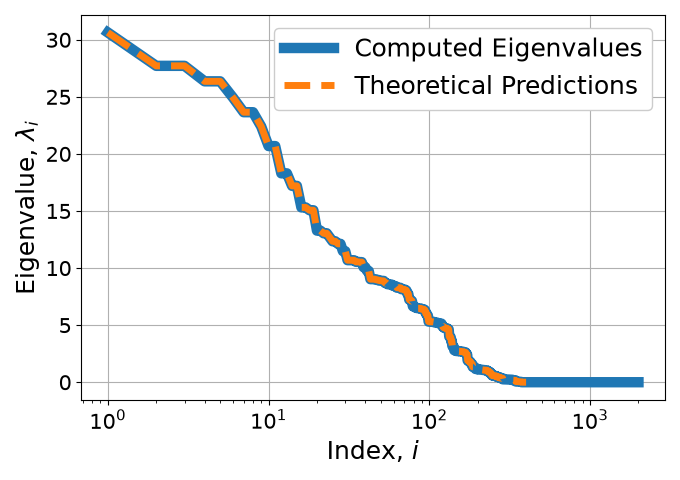
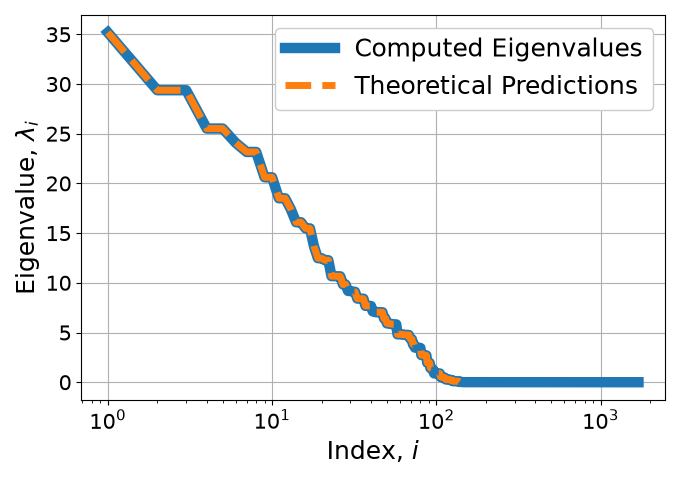
also fixed for deep networks

diff --git a/balanced_network_random_data.py b/balanced_network_random_data.py
@@ -1,57 +1,71 @@
-from os.path import basename, splitext
+import os
 
 import numpy as np
 import torch
 import matplotlib.pyplot as plt
 
 from constants import *
+from utilities import pad
 
 
-n, d, L = 100, 20, 5
+n, L = 100, 5
+d_in, d_hid, d_out = 20, 15, 10
+widths = [d_in] + [d_hid]*(L-1) + [d_out]
 sigma_x = 3
 
+assert n >= d_in
+k = min(widths)
+L = len(widths) - 1
+X_spec_norm = n**0.5 * sigma_x
 
 # 1. Generate whitened X
-X_raw = torch.randn(d, n)
-Q_x, _ = torch.linalg.qr(X_raw.T)
-X = Q_x.T[:d, :] * np.sqrt(n) * sigma_x
-print((1/n*X@X.T - sigma_x**2*torch.eye(d)).abs().max())
+Q_x, _ = torch.linalg.qr(torch.randn(n, d_in), mode="reduced")
+X = Q_x.T * X_spec_norm
+print(f"Deviation from Assumption 1: {(
+    X@X.T / X_spec_norm**2 - torch.eye(X.size(0))
+).abs().max().item():.3e}")
 
 # 2. Fixed Singular Values for all layers
-s_sq = torch.sort(torch.rand(d), descending=True).values
-S = torch.diag(torch.sqrt(s_sq))
+s_sq = torch.sort(torch.rand(k), descending=True).values
+s = torch.sqrt(s_sq)
 
 # 3. Generate Aligned Weights: V_{l+1} = U_l
 weights = []
-V, _ = torch.linalg.qr(torch.randn(d, d))
+V, _ = torch.linalg.qr(torch.randn(widths[0], k))
 for l in range(L):
-    U, _ = torch.linalg.qr(torch.randn(d, d))
-    V, W = U, U@S@ V.T
+    U, _ = torch.linalg.qr(torch.randn(widths[l+1], k))
+    V, W = U, (U*s) @ V.T
     W = W.clone().requires_grad_(True)
     weights.append(W)
 with torch.no_grad():
-    for W1, W2 in zip(weights[:-1], weights[1:]):
-        print((W1@W1.T-W2.T@W2).abs().max())
+    for l, (W1, W2) in enumerate(zip(weights[:-1], weights[1:]), 1):
+        print(f"Imbalance between layer {l} and layer {l+1}: {(
+            W1 @ W1.T - W2.T @ W2
+        ).abs().max().item():.3e}")
 
 # 4. Target Generation (Zero Loss)
-weights_prod = torch.eye(d)
+weights_prod = torch.eye(weights[0].size(1))
 with torch.no_grad():
     for W in weights:
         weights_prod = W @ weights_prod
-Y = weights_prod @ X
+    Y = weights_prod @ X
 
-print((1/n*Y@X.T - sigma_x**2*weights_prod).abs().max())
-print((torch.pow(s_sq, L) - torch.linalg.svdvals(Y).square() / (n*sigma_x**2)).abs().max())
+print(f"Deviation from OLS solution: {(
+    Y@X.T / X_spec_norm**2 - weights_prod
+).abs().max().item():.3e}")
+print(f"Error in Equation 20b: {(
+    pad(torch.pow(s_sq, len(weights)), d_out) -
+    pad(torch.linalg.svdvals(Y).square(), d_out) / X_spec_norm**2
+).abs().max().item():.3e}")
 
 # 5. Loss and Autograd Hessian
 def get_loss(flat_params):
-    curr_X = X
-    curr = 0
-    for _ in range(L):
-        W = flat_params[curr:curr+d*d].view(d, d)
-        curr_X = W @ curr_X
-        curr += d*d
-    return 0.5 / n * torch.sum((curr_X-Y)**2)
+    out, pointer = X, 0
+    for l in range(len(weights)):
+        W = flat_params[pointer:pointer+weights[l].numel()].view_as(weights[l])
+        out = W @ out
+        pointer += weights[l].numel()
+    return 0.5 / n * torch.sum((out-Y)**2)
 
 flat_W = torch.cat([W.flatten() for W in weights])
 H = torch.autograd.functional.hessian(get_loss, flat_W)
@@ -59,36 +73,25 @@ eigs_actual = torch.linalg.eigvalsh(H)
 
 # 6. Geometric Series
 analytical = []
-for i in range(d):
-    for j in range(d):
-        a, b = s_sq[i], s_sq[j]
-        val = (a**L - b**L)/(a - b) if abs(a-b) > 1e-7 else L*(a**(L-1))
+for i in range(d_in):
+    for j in range(d_out):
+        a, b = s_sq[i] if i < len(s_sq) else 0., s_sq[j] if j < len(s_sq) else 0.
+        val = (a**L-b**L)/(a-b) if abs(a-b) > 1e-7 else L*(a**(L-1))
         analytical.append(sigma_x**2*val)
 
-eigs_theory = torch.tensor(sorted(analytical, reverse=True))
-eigs_actual_top = torch.sort(eigs_actual, descending=True).values
+eigs_theory = np.sort(analytical, descending=True)
+eigs_actual = np.sort(eigs_actual, descending=True)
 
 k = 10
-print(f"Alignment Verification (L={L}, d={d})\nDisplaying Top-{k} and Bottom-{k} Eigvals")
-print("\n" + "-" * 50)
-print("\nNumerical Eigvals:\n")
-print(eigs_actual_top[:k].numpy(), " ...\n\n", eigs_actual_top[len(eigs_theory)-k:len(eigs_theory)].numpy(), sep="")
-print("\nAnalytical Eigvals:\n")
-print(eigs_theory[:k].numpy(), " ...\n\n", eigs_theory[-k:].numpy(), sep="")
-
-s_sq = (torch.linalg.svdvals(Y).square() / (n*sigma_x**2)) ** (1/L)
-analytical = []
-for i in range(d):
-    for j in range(d):
-        a, b = s_sq[i], s_sq[j]
-        val = (a**L - b**L)/(a - b) if abs(a-b) > 1e-7 else L*(a**(L-1))
-        analytical.append(sigma_x**2*val)
-eigs_theory = torch.tensor(sorted(analytical, reverse=True))
-print("Analytical Eigvals:\n")
-print(eigs_theory[:k].numpy(), " ...\n\n", eigs_theory[-k:].numpy(), sep="")
+print(f"\nAlignment Verification (L = {len(weights)}, widths = {", ".join(map(str, widths))})")
+print(f"Displaying Top-{k} and Bottom-{k} Eigvals")
+print("-" * 75)
+print(f"Numerical Eigvals:\n{eigs_actual[:k]} ...\n{eigs_actual[d_in*d_out-k:d_in*d_out]}")
+print("-" * 75)
+print(f"Analytical Eigvals:\n{eigs_theory[:k]} ...\n{eigs_theory[-k:]}")
 
 fig, ax = plt.subplots(1, 1, figsize=(AX_WIDTH*1, AX_HEIGHT*1))
-ax.plot(range(1, len(eigs_actual_top)+1), eigs_actual_top, linewidth=7.5, label="Computed Eigenvalues")
+ax.plot(range(1, len(eigs_actual)+1), eigs_actual, linewidth=7.5, label="Computed Eigenvalues")
 ax.plot(range(1, len(eigs_theory)+1), eigs_theory, linewidth=5, linestyle="--", label="Theoretical Predictions")
 ax.tick_params(axis="both", labelsize=15)
 ax.set_xlabel(r"Index, $i$", fontsize=18)
@@ -98,5 +101,8 @@ ax.grid()
 ax.legend(loc="upper right", framealpha=1., fontsize=18)
 
 fig.tight_layout()
-plt.savefig(f"{ASSETS}/{splitext(basename(__file__))[0]}.png")
+fn = f"{ASSETS}/{os.path.splitext(os.path.basename(__file__))[0]}.png"
+os.makedirs(os.path.dirname(fn), exist_ok=True)
+plt.savefig(fn)
 plt.close()
+print(f"\nPlot saved at {fn}")
